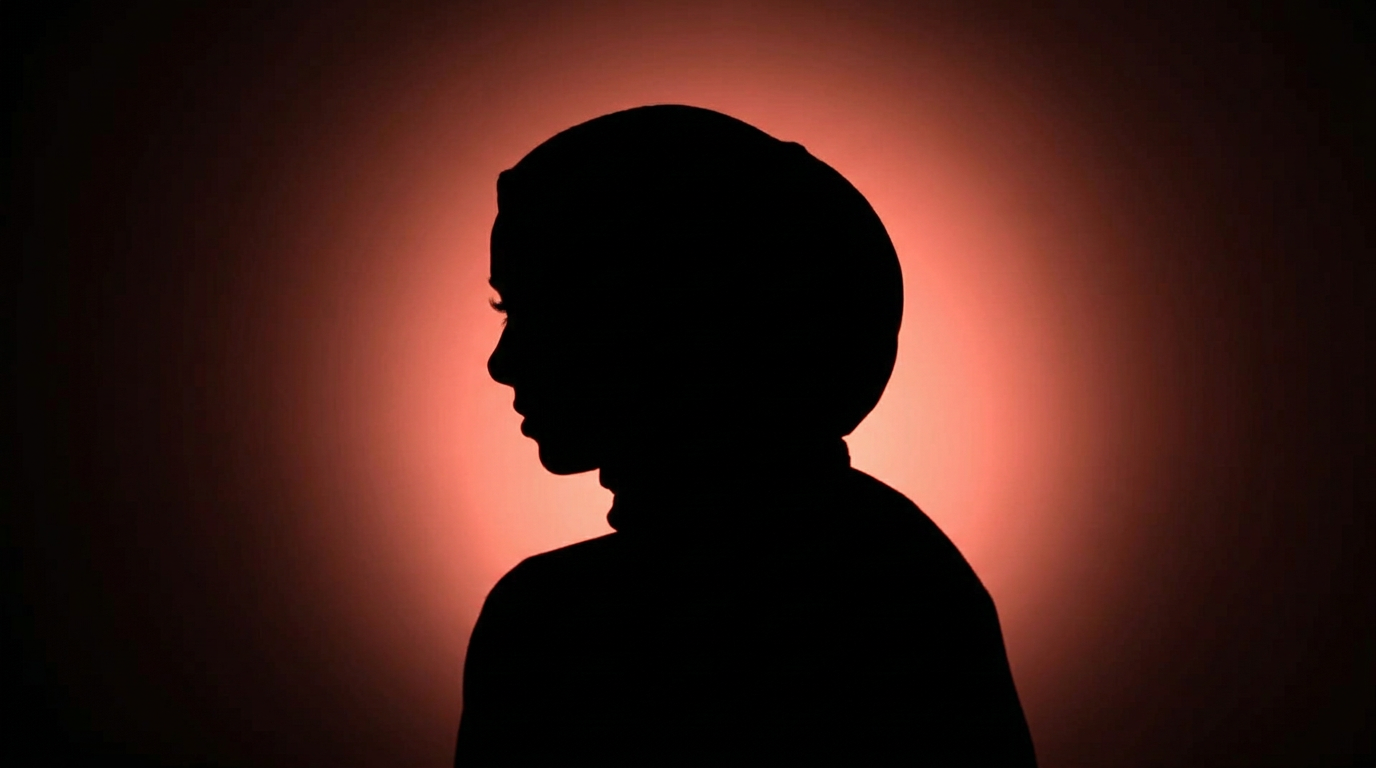
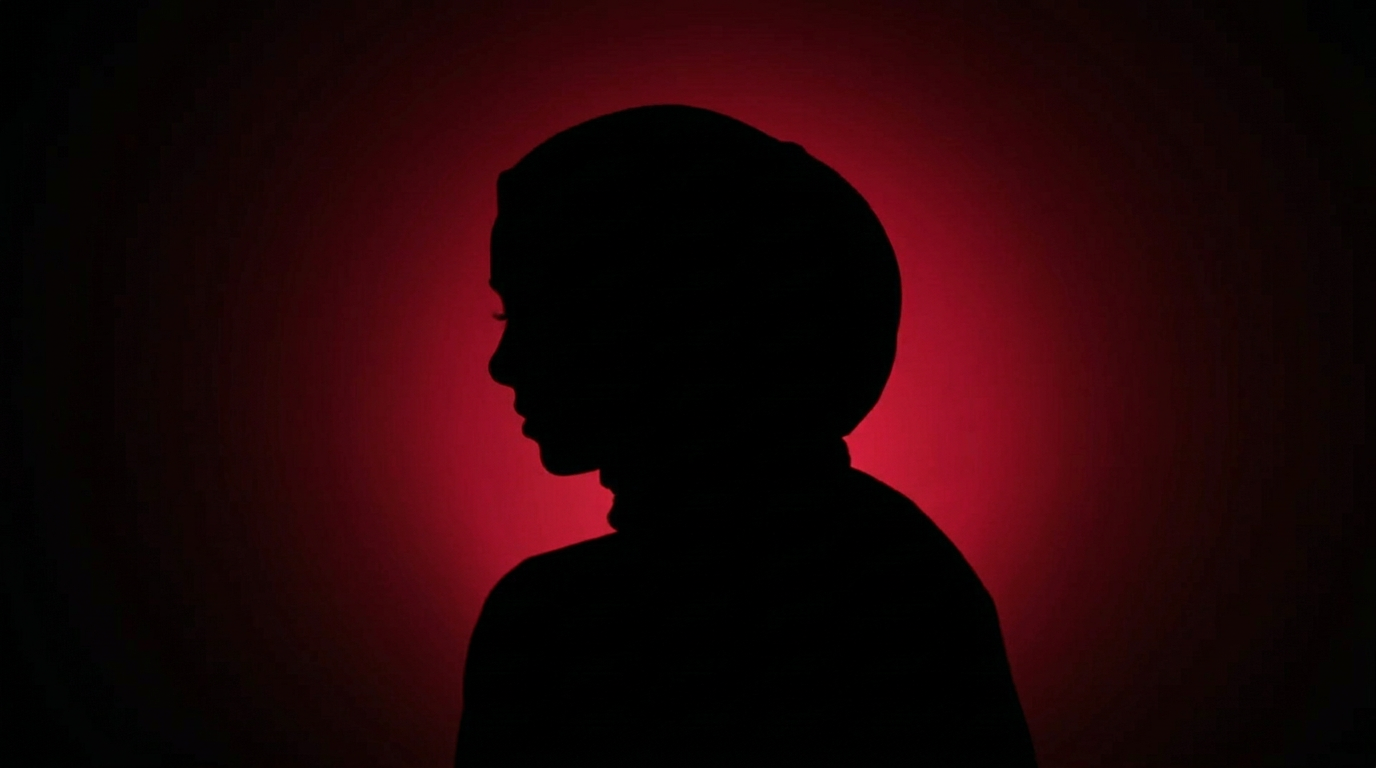
Switch to crimson red theme

diff --git a/src/components/HeroSection.tsx b/src/components/HeroSection.tsx
@@ -67,7 +67,7 @@ const HeroSection = () => {
 
             <Reveal delay={0.3}>
               <div className="flex gap-3 flex-wrap mb-6">
-                <a href="#projects" className="px-6 py-2.5 bg-primary text-primary-foreground font-heading text-xs tracking-[0.12em] uppercase rounded-lg font-semibold transition-all duration-200 hover:translate-y-[-2px] hover:shadow-[0_12px_40px_hsl(12_80%_62%/0.3)]">
+                <a href="#projects" className="px-6 py-2.5 bg-primary text-primary-foreground font-heading text-xs tracking-[0.12em] uppercase rounded-lg font-semibold transition-all duration-200 hover:translate-y-[-2px] hover:shadow-[0_12px_40px_hsl(0_85%_50%/0.3)]">
                   View Projects
                 </a>
                 <a href="#contact" className="px-6 py-2.5 border border-border text-foreground font-heading text-xs tracking-[0.12em] uppercase rounded-lg font-medium transition-all duration-200 hover:border-primary hover:text-primary hover:translate-y-[-2px]">
